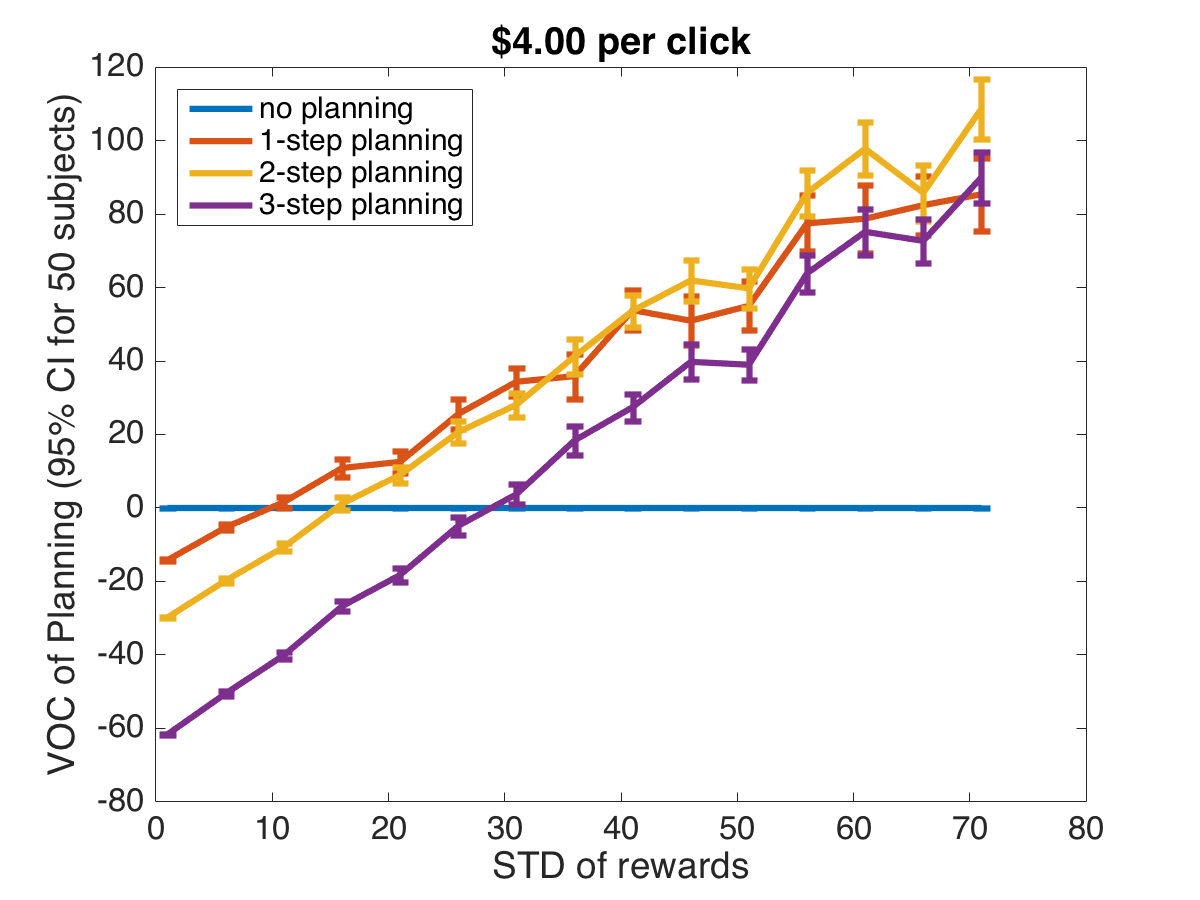
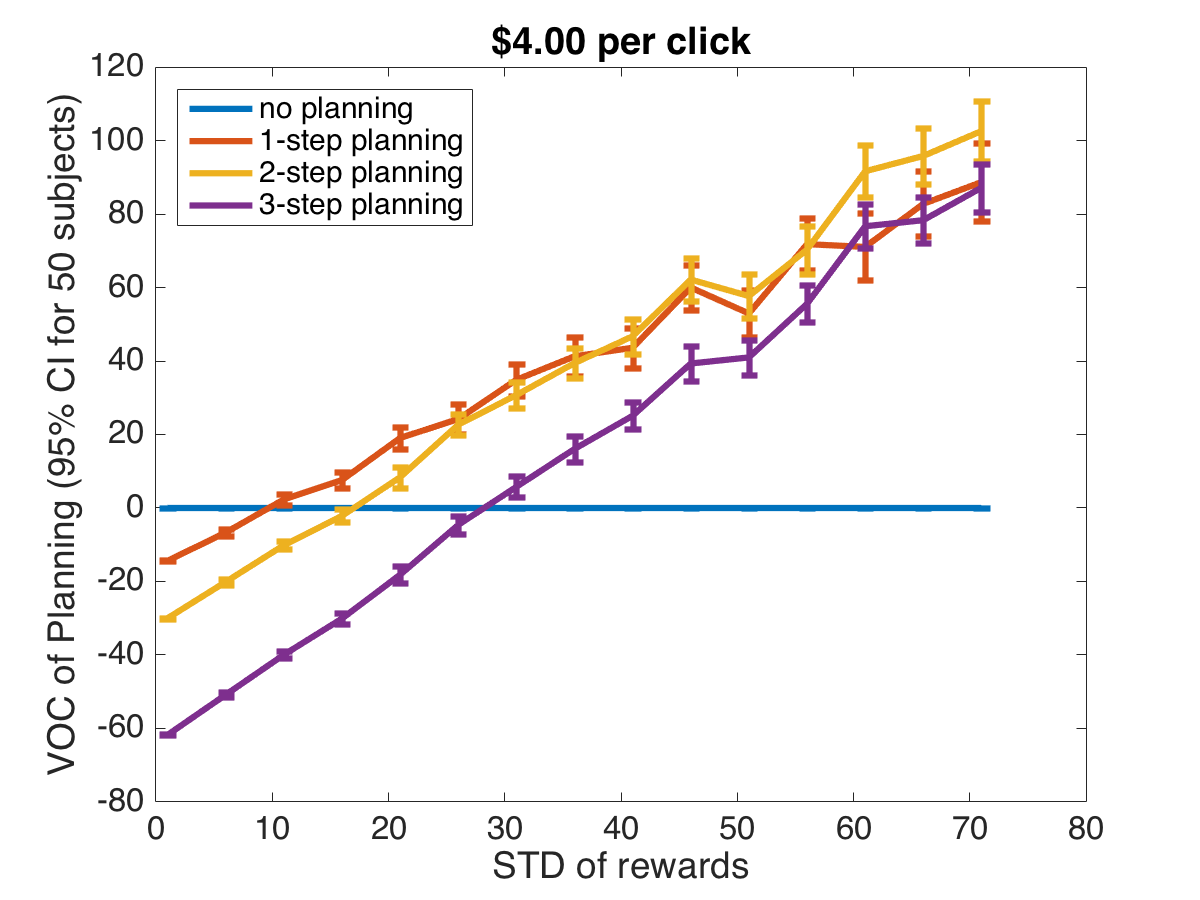
analysis of i.i.d. environments

diff --git a/matlab_code/Mouselab/generate_Mouselab_MDPs.m b/matlab_code/Mouselab/generate_Mouselab_MDPs.m
@@ -1204,6 +1204,26 @@ sigma_min_med = (4*c_med+delta_VOC)/(betas(2,2)-betas(2,1))
 sigma_max_med = (8*c_med)/(betas(2,3)-betas(2,2))
 mean([sigma_min_med,sigma_max_med])
 
+%explore the effects of different planning costs
+costs = 1:0.5:3.5;
+for c=1:numel(costs)
+    planning_costs = costs(c)*[0,4,8,16];
+    
+    VOC_of_planning = avg_benefit_of_planning - repmat(planning_costs,[numel(reward_stds),1]);
+    
+    figure(6)
+    subplot(2,3,c)
+    errorbar(repmat(reward_stds',[1,4]),VOC_of_planning(:,1:end),...
+        1.96*sem_benefit_of_planning,'LineWidth',3)
+    ylabel('VOC of Planning (95% CI for 50 subjects)','FontSize',18)
+    xlabel('STD of rewards','FontSize',18)
+    set(gca,'FontSize',16)
+    legend('no planning','1-step planning','2-step planning','3-step planning',...
+        'Location','NorthWest')
+    title(['$',num2str(costs(c)),' per click'],'FontSize',18)
+    
+    
+end
 %% 
 
 nr_problems = 16;
